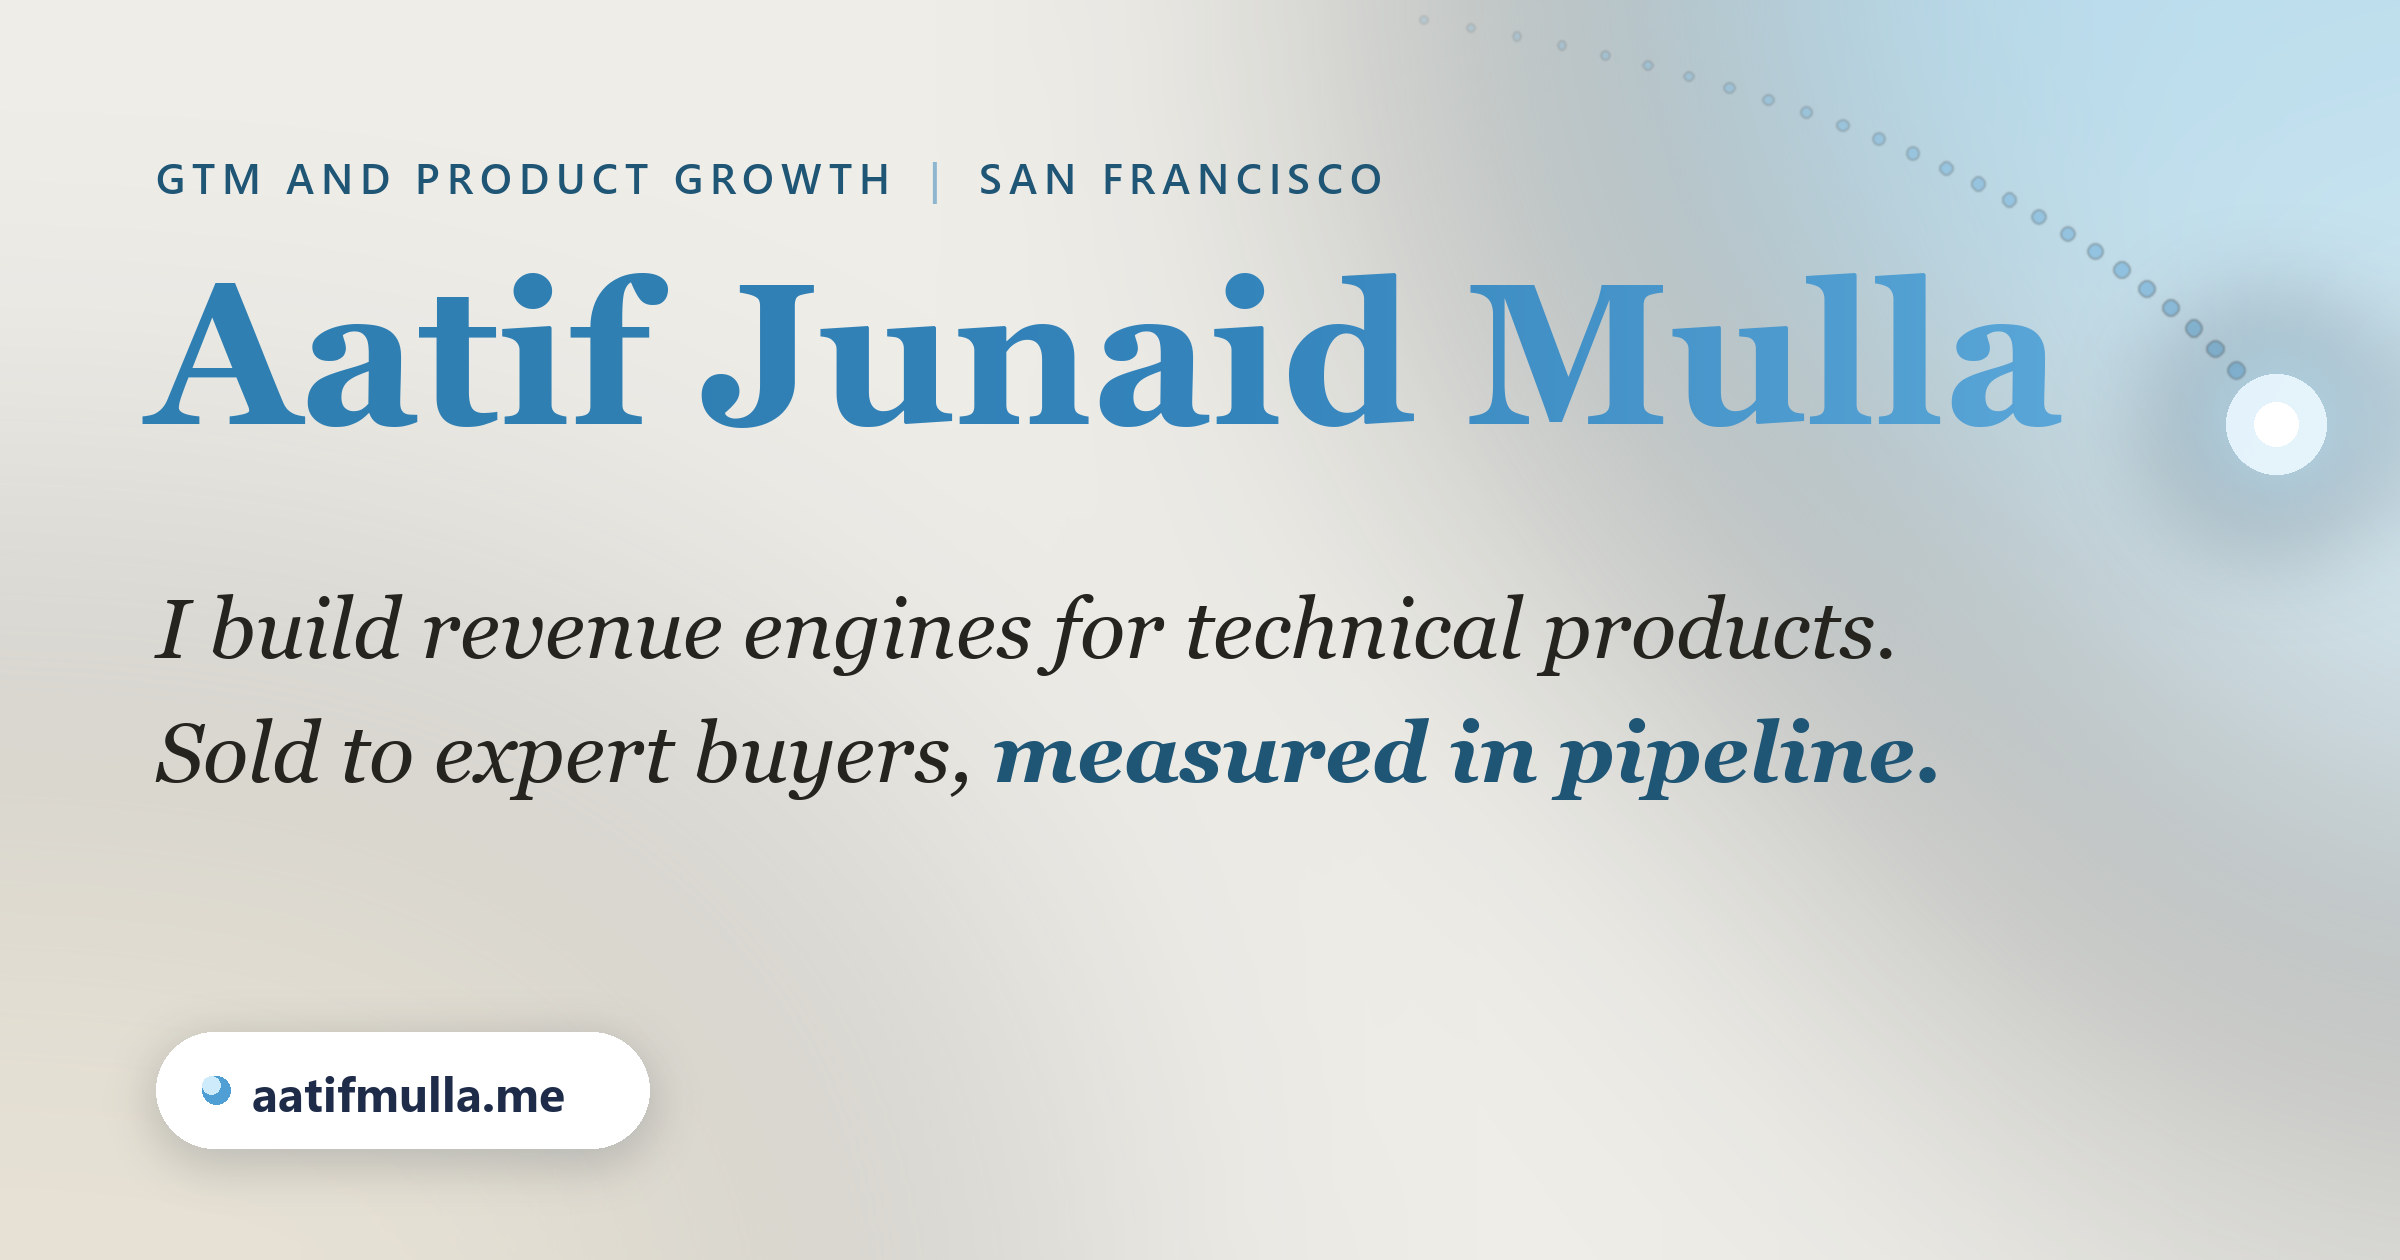
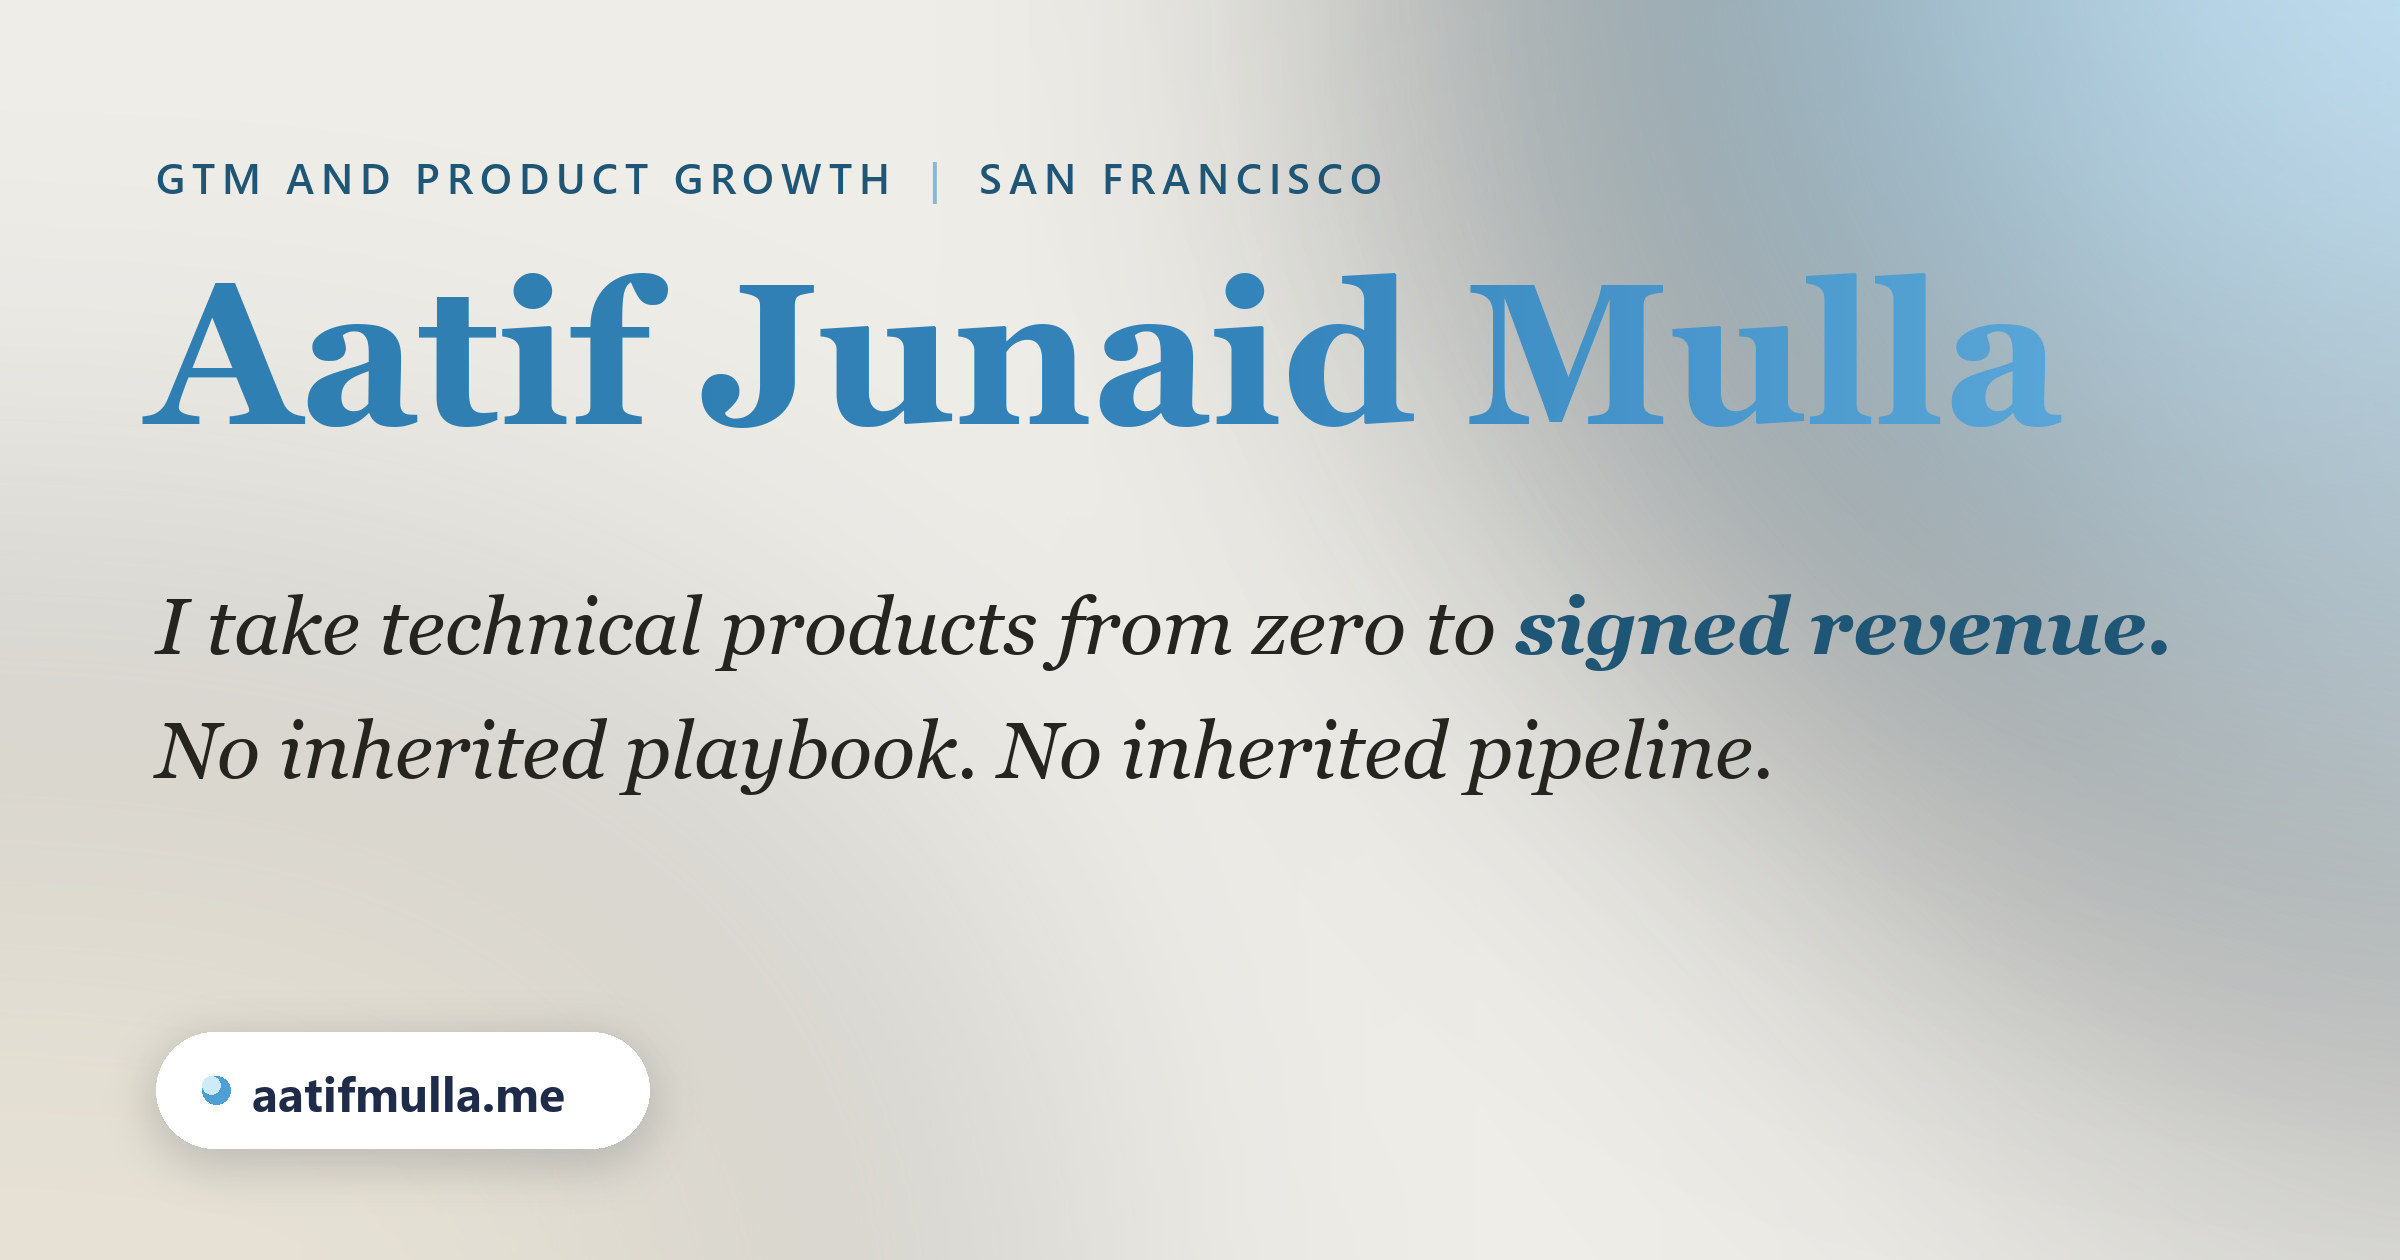
Refine share card: human tagline, drop the clip-art comet
Two problems on the share card and hero.

Copy: 'I build revenue engines for technical products, sold to expert buyers,
measured in pipeline' reads as AI-generated: a manufactured metaphor plus a
fragment-comma-fragment cadence. Replaced with plainer, verifiable positioning
that reuses Aatif's own resume voice ('building the playbook rather than
inheriting one'):
  I take technical products from zero to signed revenue.
  No inherited playbook. No inherited pipeline.
Applied to the hero statement, meta description, and og:description.

Comet: the static card drew the comet as an evenly-spaced dotted line ending in
a hard head, which reads as clip-art. On the light card ground the blue trail
also piled up into a dark ring around the bright head. Removed the literal comet
and let the existing soft sky wash carry the top-right, which is how the card
already gets its glass-and-glow feel. Reduced the tagline to 40px for a cleaner
right margin.

og-image cache-buster bumped v3 -> v4 so LinkedIn and Slack refetch. Card stays
2400x1260. No layout or CSS change.

Changed region(s): [[0.0625, 0.0, 1.0, 0.619], [0.0625, 0.5571, 0.8125, 0.65]]

diff --git a/index.html b/index.html
@@ -4,14 +4,14 @@
   <meta charset="UTF-8" />
   <meta name="viewport" content="width=device-width, initial-scale=1.0" />
   <title>Aatif Junaid Mulla · GTM and Product Growth</title>
-  <meta name="description" content="Aatif Junaid Mulla, GTM and product growth in San Francisco. I build revenue engines for technical products sold to expert buyers." />
+  <meta name="description" content="Aatif Junaid Mulla, GTM and product growth in San Francisco. I take technical products from zero to signed revenue." />
 
   <!-- Open Graph (controls how the link looks when shared on LinkedIn, Slack, etc.) -->
   <meta property="og:type" content="website" />
   <meta property="og:url" content="https://aatifmulla.me" />
   <meta property="og:title" content="Aatif Junaid Mulla · GTM and Product Growth" />
-  <meta property="og:description" content="I build revenue engines for technical products. Sold to expert buyers, measured in pipeline." />
-  <meta property="og:image" content="https://aatifmulla.me/og-image.jpg?v=3" />
+  <meta property="og:description" content="I take technical products from zero to signed revenue. No inherited playbook. No inherited pipeline." />
+  <meta property="og:image" content="https://aatifmulla.me/og-image.jpg?v=4" />
   <meta property="og:image:type" content="image/jpeg" />
   <meta property="og:image:width" content="2400" />
   <meta property="og:image:height" content="1260" />
@@ -19,7 +19,7 @@
   <meta name="twitter:card" content="summary_large_image" />
   <meta name="twitter:title" content="Aatif Junaid Mulla · GTM and Product Growth" />
   <meta name="twitter:description" content="GTM and product growth: go-to-market from zero, pipeline and revenue attribution, enterprise commercialization." />
-  <meta name="twitter:image" content="https://aatifmulla.me/og-image.jpg?v=3" />
+  <meta name="twitter:image" content="https://aatifmulla.me/og-image.jpg?v=4" />
 
   <meta name="theme-color" content="#FBF9F5" />
   <link rel="canonical" href="https://aatifmulla.me/" />
@@ -98,8 +98,8 @@
       <p class="hero__tagline reveal">Go-to-market from zero to revenue</p>
       <div class="hero__story reveal">
         <p class="hero__statement">
-          <span>I build revenue engines for technical products.</span>
-          <span>Sold to expert buyers, measured in pipeline.</span>
+          <span>I take technical products from zero to signed revenue.</span>
+          <span>No inherited playbook. No inherited pipeline.</span>
           <strong>Let me show you.</strong>
         </p>
       </div>

diff --git a/case-studies.html b/case-studies.html
@@ -9,7 +9,7 @@
   <meta property="og:url" content="https://aatifmulla.me/case-studies.html" />
   <meta property="og:title" content="GTM and Marketing Case Studies | Aatif Junaid Mulla" />
   <meta property="og:description" content="The problem, the play I ran, what I owned, and the pipeline it produced." />
-  <meta property="og:image" content="https://aatifmulla.me/og-image.jpg?v=3" />
+  <meta property="og:image" content="https://aatifmulla.me/og-image.jpg?v=4" />
   <meta property="og:image:type" content="image/jpeg" />
   <meta property="og:image:width" content="2400" />
   <meta property="og:image:height" content="1260" />
@@ -17,7 +17,7 @@
   <meta name="twitter:card" content="summary_large_image" />
   <meta name="twitter:title" content="GTM Case Studies | Aatif Junaid Mulla" />
   <meta name="twitter:description" content="The problem, the play I ran, what I owned, and the pipeline it produced." />
-  <meta name="twitter:image" content="https://aatifmulla.me/og-image.jpg?v=3" />
+  <meta name="twitter:image" content="https://aatifmulla.me/og-image.jpg?v=4" />
   <meta name="theme-color" content="#FBF9F5" />
   <link rel="canonical" href="https://aatifmulla.me/case-studies.html" />
   <meta name="referrer" content="strict-origin-when-cross-origin" />
